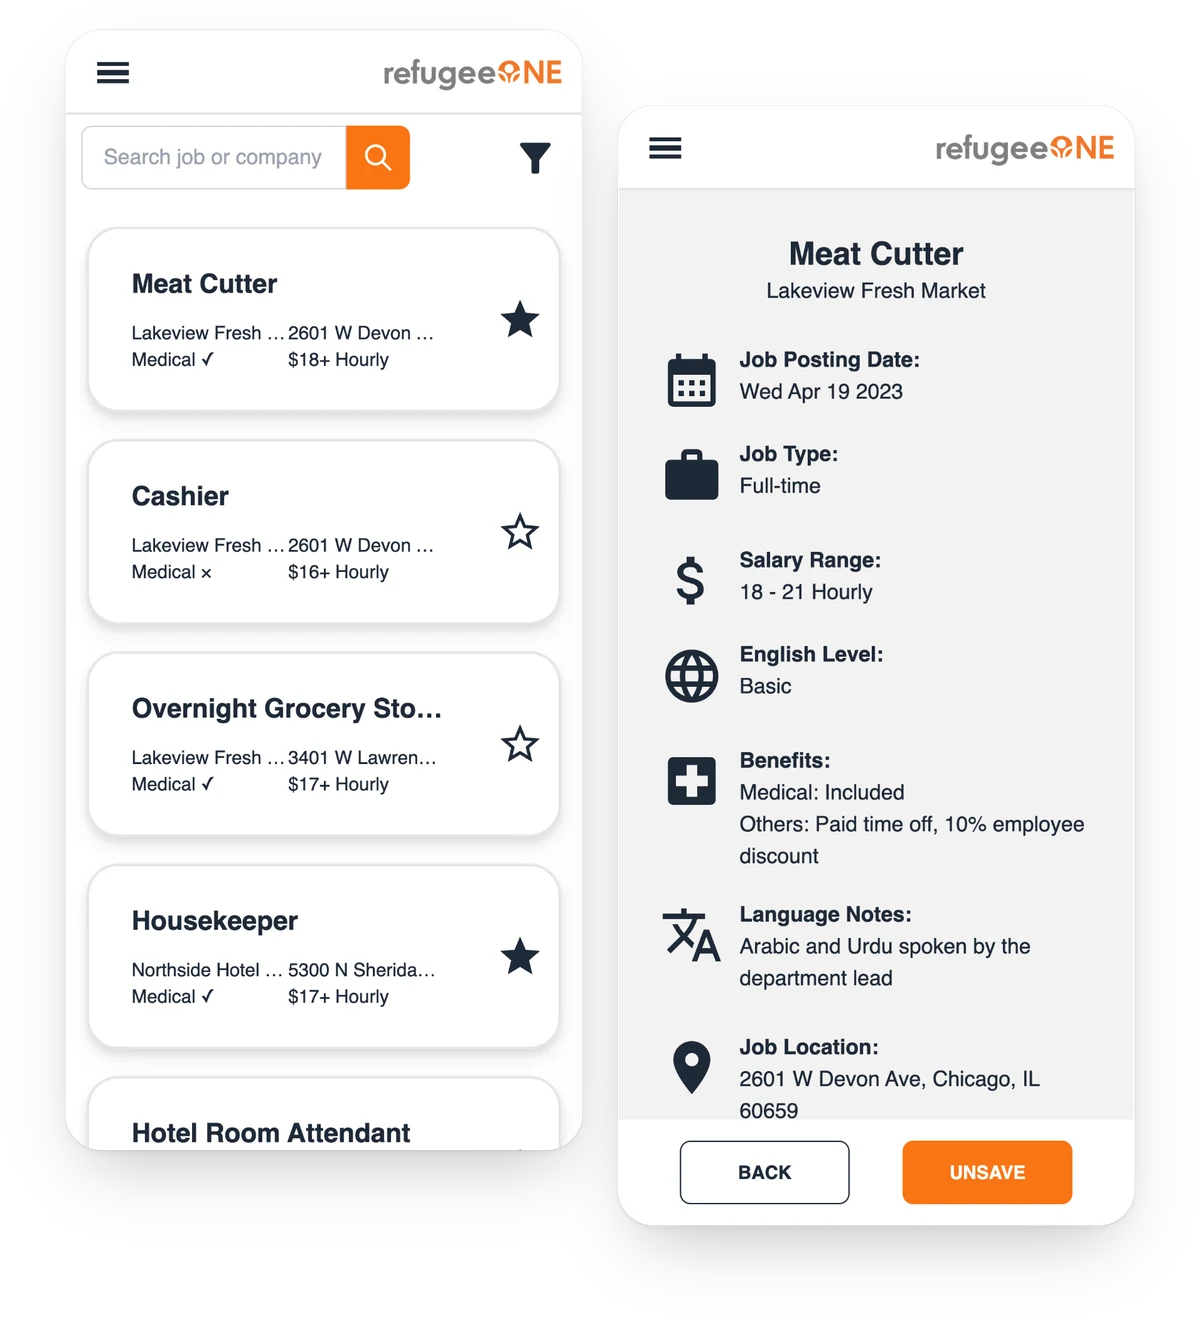
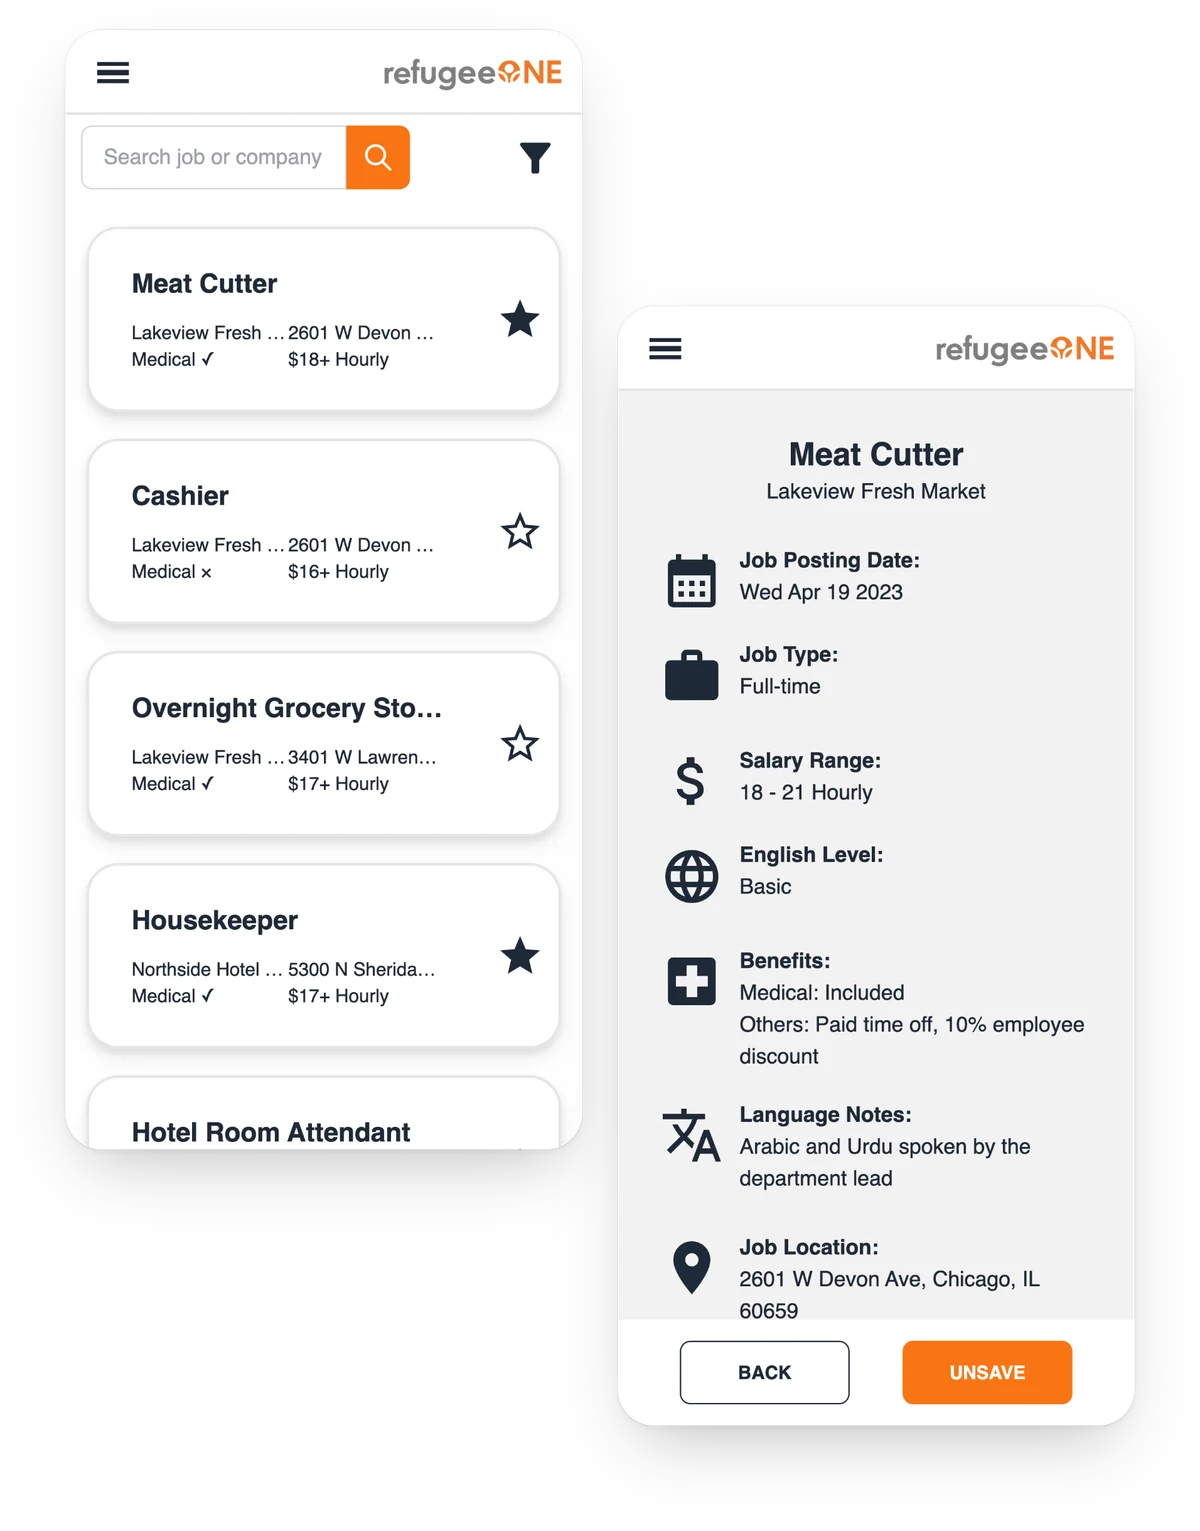
RefugeeOne: drop the sprint-review list and the sample-data note; phone pairs get a deeper stagger at a larger size (#82)

diff --git a/src/data/cases/refugeeone.ts b/src/data/cases/refugeeone.ts
@@ -90,16 +90,6 @@ const journey: CaseBlock = {
   ],
 };
 
-const clientChanges: CaseBlock = {
-  t: "list", plain: true, items: [
-    "Say **Pay**, not Salary or Wage, and fold tips or piece rates into the range as an estimate.",
-    "Say **Shift**, not Job Timing, and let refugees filter by real start and end times: ==6 a.m. and 8 a.m. are different jobs== when you ride the bus.",
-    "Make employers answer the medical-benefits question instead of skipping it.",
-    "Keep phone numbers and emails with staff. Clients see the job, not the contact.",
-    "Add more icons, everywhere: “What if they don't understand English at all?”",
-  ],
-};
-
 const workflows: CaseBlock[] = [
   { t: "p", text: "Before drawing screens, we mapped every task for each role: sign up, post, review, approve, search, save. Each flow became a set of user stories on the board, and each set became a wireframe." },
   { t: "img", src: "refugeeone/flows.png", caption: "Low-fi wireframes grouped by role: sign-in, refugee, RefugeeOne staff and employer", w: 1040 },
@@ -223,12 +213,8 @@ const a: CaseStudy = {
     { id: "design", label: "Design", blocks: [
       { t: "h", text: "Workflows first" },
       ...workflows,
-      { t: "h", text: "Refined in sprint reviews" },
-      { t: "p", text: "Every sprint ended with a review of the designs and the build. Small, specific refinements came out of each one:" },
-      clientChanges,
     ] },
     { id: "product", label: "The Product", blocks: [
-      { t: "p", text: "Screens are from the shipped app, shown with sample data." },
       { t: "h", text: "For refugees" },
       ...screensRefugee,
       { t: "h", text: "For employers" },

diff --git a/src/styles.css b/src/styles.css
@@ -1217,7 +1217,8 @@ button { font-family: inherit; color: inherit; }
 .cs-item p { margin: 0 0 12px; font-family: var(--font-sans); font-size: 16px; line-height: 1.7; color: #494949; }
 .cs-item > img { display: block; width: 100%; height: auto; border-radius: 10px; box-shadow: 0 1px 3px rgba(0,0,0,0.1), 0 12px 32px rgba(0,0,0,0.1); }
 .cs-section:nth-of-type(even) .cs-item > img { box-shadow: none; } /* illustrations sit flat on the mist band */
-.cs-feature img.bare, .cs-item > img.bare { border-radius: 0; box-shadow: none; } /* device mockups bring their own frame and shadow */
+.cs-feature img.bare, .cs-item > img.bare { border-radius: 0; box-shadow: none; }
+.cs-feature img.bare { max-height: 680px; } /* device mockups bring their own frame and shadow */
 .cs-chips { display: flex; flex-wrap: wrap; gap: 8px; margin-top: 18px; }
 .cs-chip { display: inline-flex; align-items: center; gap: 8px; padding: 5px 12px 5px 6px; border: 1px solid var(--hairline); border-radius: 999px; background: #fff; color: #181818; text-decoration: none; font-family: var(--font-sans); font-weight: 600; font-size: 14px; transition: border-color 0.15s, transform 0.15s; }
 .cs-chip img { width: 22px; height: 22px; }
